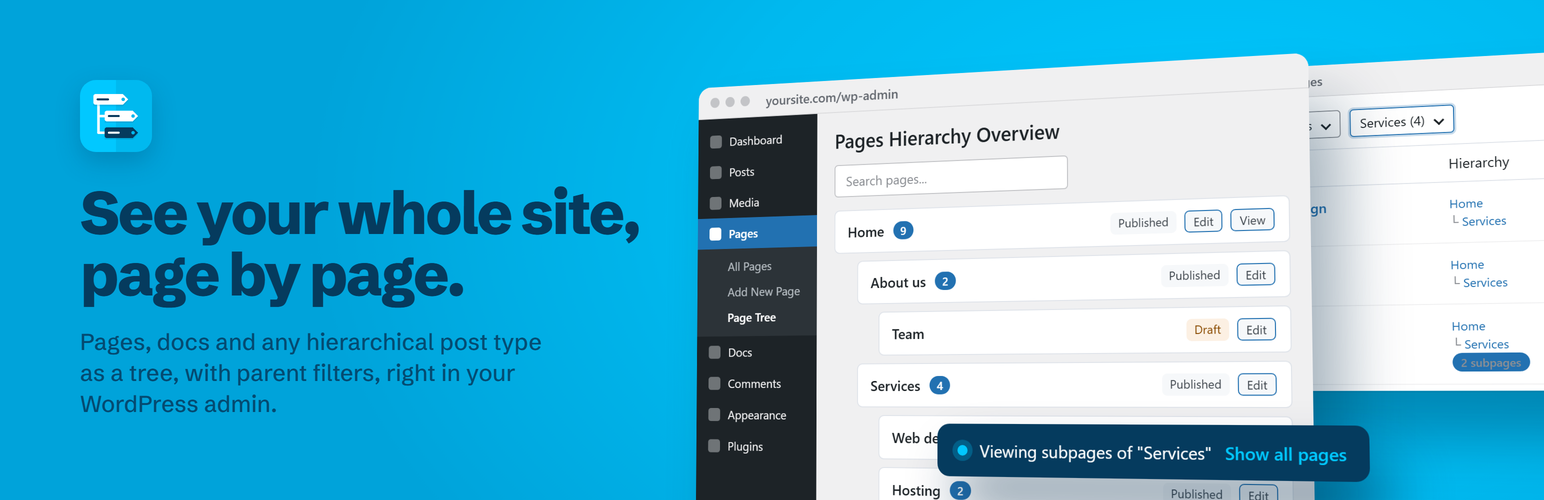
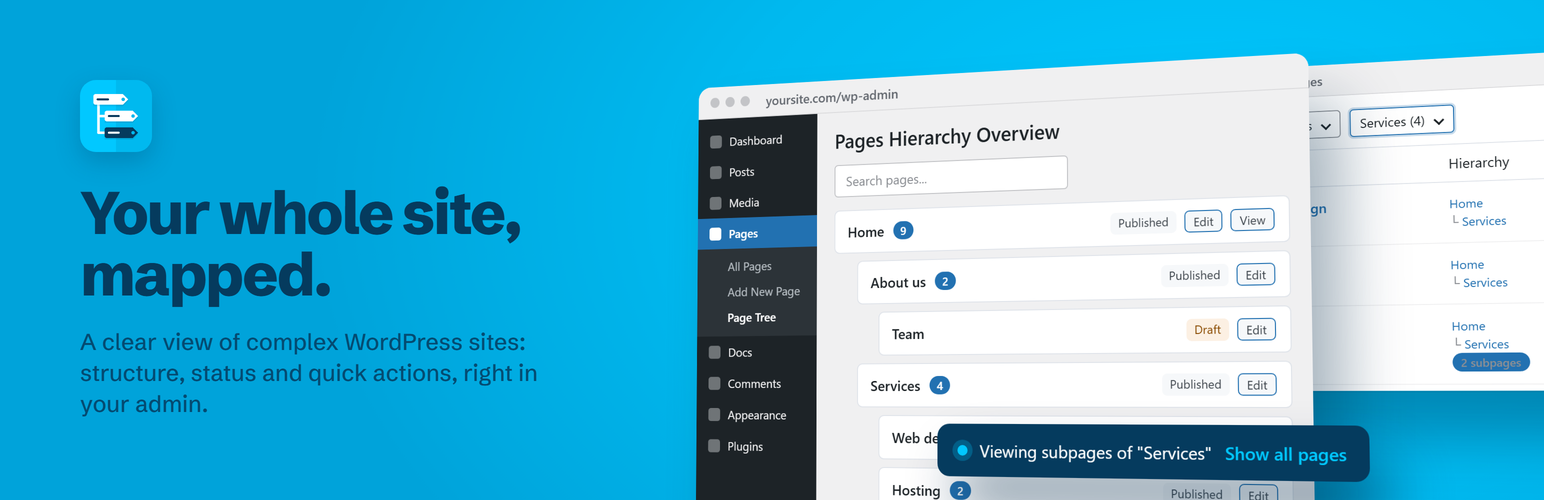
v3.0.1

Changed region(s): [[0.0311, 0.36, 0.4352, 0.63], [0.0311, 0.66, 0.342, 0.84]]

diff --git a/easy-hierarchy.php b/easy-hierarchy.php
@@ -1,8 +1,8 @@
 <?php
 /*
-Plugin Name: Easy Hierarchy – Tree View for Pages & Custom Post Types
+Plugin Name: Easy Hierarchy – Monitor Page Tree & Custom Post Types
 Description: Makes WordPress page hierarchy management easy and intuitive with enhanced filtering and visual hierarchy indicators, for pages and any hierarchical post type
-Version: 3.0
+Version: 3.0.1
 Author: Marco Milesi
 Author URI: https://www.marcomilesi.com
 Requires at least: 4.6

diff --git a/README.md b/README.md
@@ -1,6 +1,6 @@
 # Easy Hierarchy
 
-Tree view for Pages & Custom Post Types: a visual hierarchy, a Hierarchy column and a parent filter in the WordPress admin.
+Your whole site, mapped. A clear view of complex WordPress sites: structure, status and quick actions for pages and custom post types.
 
 [![WordPress plugin](https://img.shields.io/wordpress/plugin/v/easy-hierarchy.svg)](https://wordpress.org/plugins/easy-hierarchy/)
 [![Active Installs](https://img.shields.io/wordpress/plugin/installs/easy-hierarchy.svg)](https://wordpress.org/plugins/easy-hierarchy/)
@@ -11,16 +11,33 @@ Tree view for Pages & Custom Post Types: a visual hierarchy, a Hierarchy column 
 
 ![Easy Hierarchy](.wordpress-org/banner-1544x500.png)
 
-See and manage the structure of your site, page by page, for Pages and every hierarchical post type, without leaving the admin.
+Easy Hierarchy is made for people who manage large, complex WordPress sites: hundreds of pages, deep hierarchies, many editors and custom post types.
+
+Over time, the structure gets hard to follow. Pages end up in the wrong place, drafts and scheduled content are forgotten, and finding things means scrolling through flat lists. Easy Hierarchy gives you a clear view of your content, so you can see how the site is organized, check what needs attention and reach any item in one click.
+
+**Made for** public administrations and schools, universities and large organizations, agencies managing client sites, documentation sites, knowledge bases and intranets.
 
 ## Features
 
-- **Tree view** for every hierarchical post type (for example **Pages → Page Tree**), with drafts, pending, private and scheduled items
-- Search, status filter and sorting (title, newest, oldest, recently modified) that keep the hierarchy
-- Publish date, last revision, status and Edit / View links for each item
-- **Hierarchy column** in the list screen, with the full parent path and the number of children
-- **Parent filter** with every item that has children, at any level
+### See the structure
+
+- **Tree view** for Pages and every hierarchical post type (for example **Pages → Page Tree**)
+- **Hierarchy column** in the list screen, with the full parent path of each item
+- Number of children of each item, in the tree and in the list
 - **Settings → Easy Hierarchy**: all hierarchical post types, with links to their list and tree
+
+### Monitor what needs attention
+
+- Drafts, pending, private and scheduled items in the tree
+- Status filter that keeps the parents visible for context
+- Sorting by title, newest, oldest or recently modified, without losing the hierarchy
+- Publish date, last revision and status for each item
+
+### Navigate and act
+
+- Search the tree by title
+- **Parent filter** in the list, with every item that has children at any level
+- Edit and View links for each item
 - Fast on large sites: each screen loads the hierarchy with a single query
 
 ## Requirements
